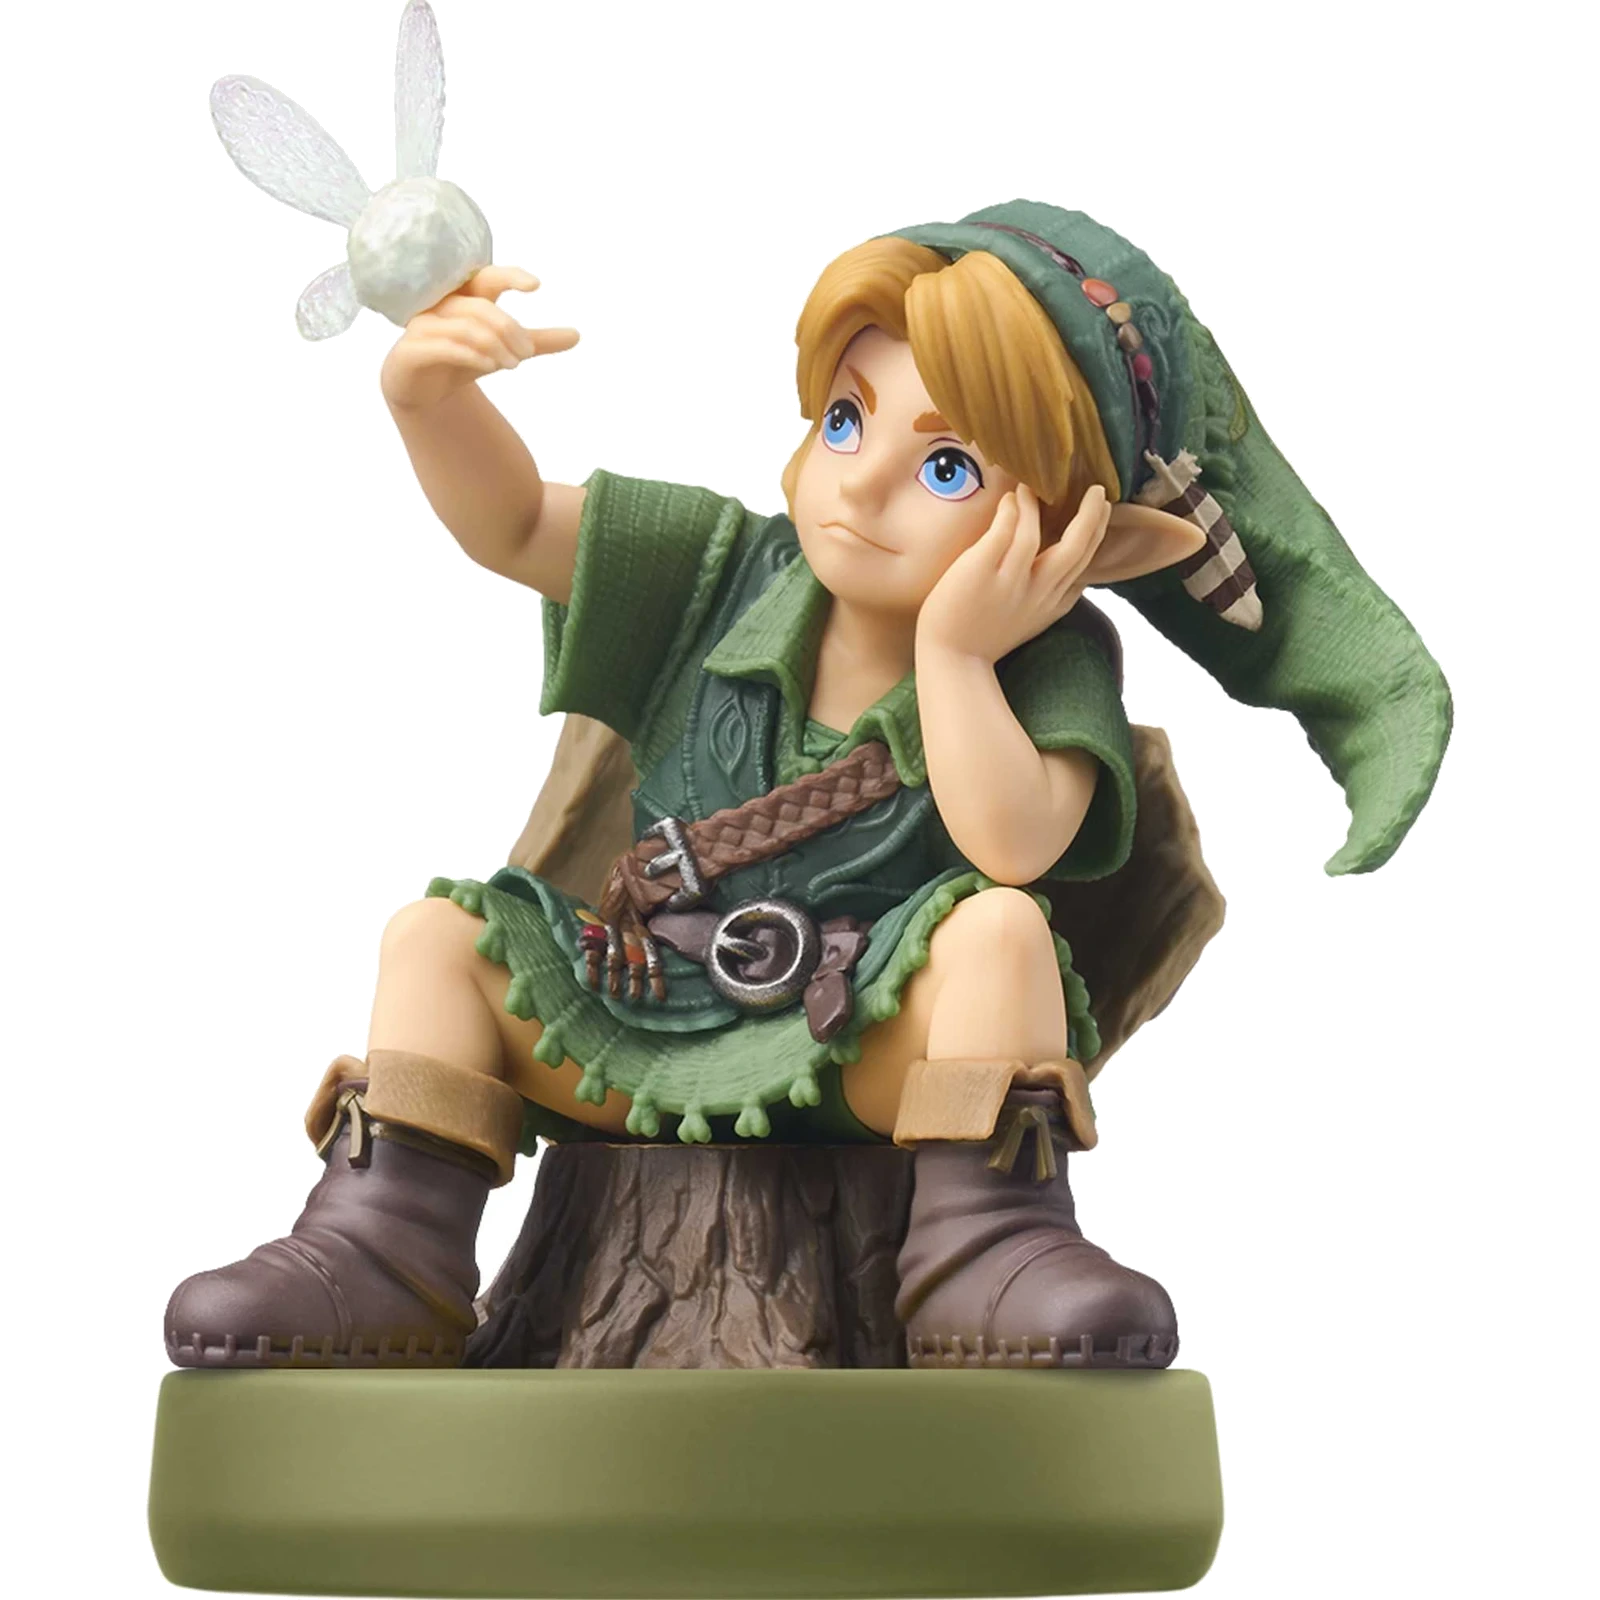
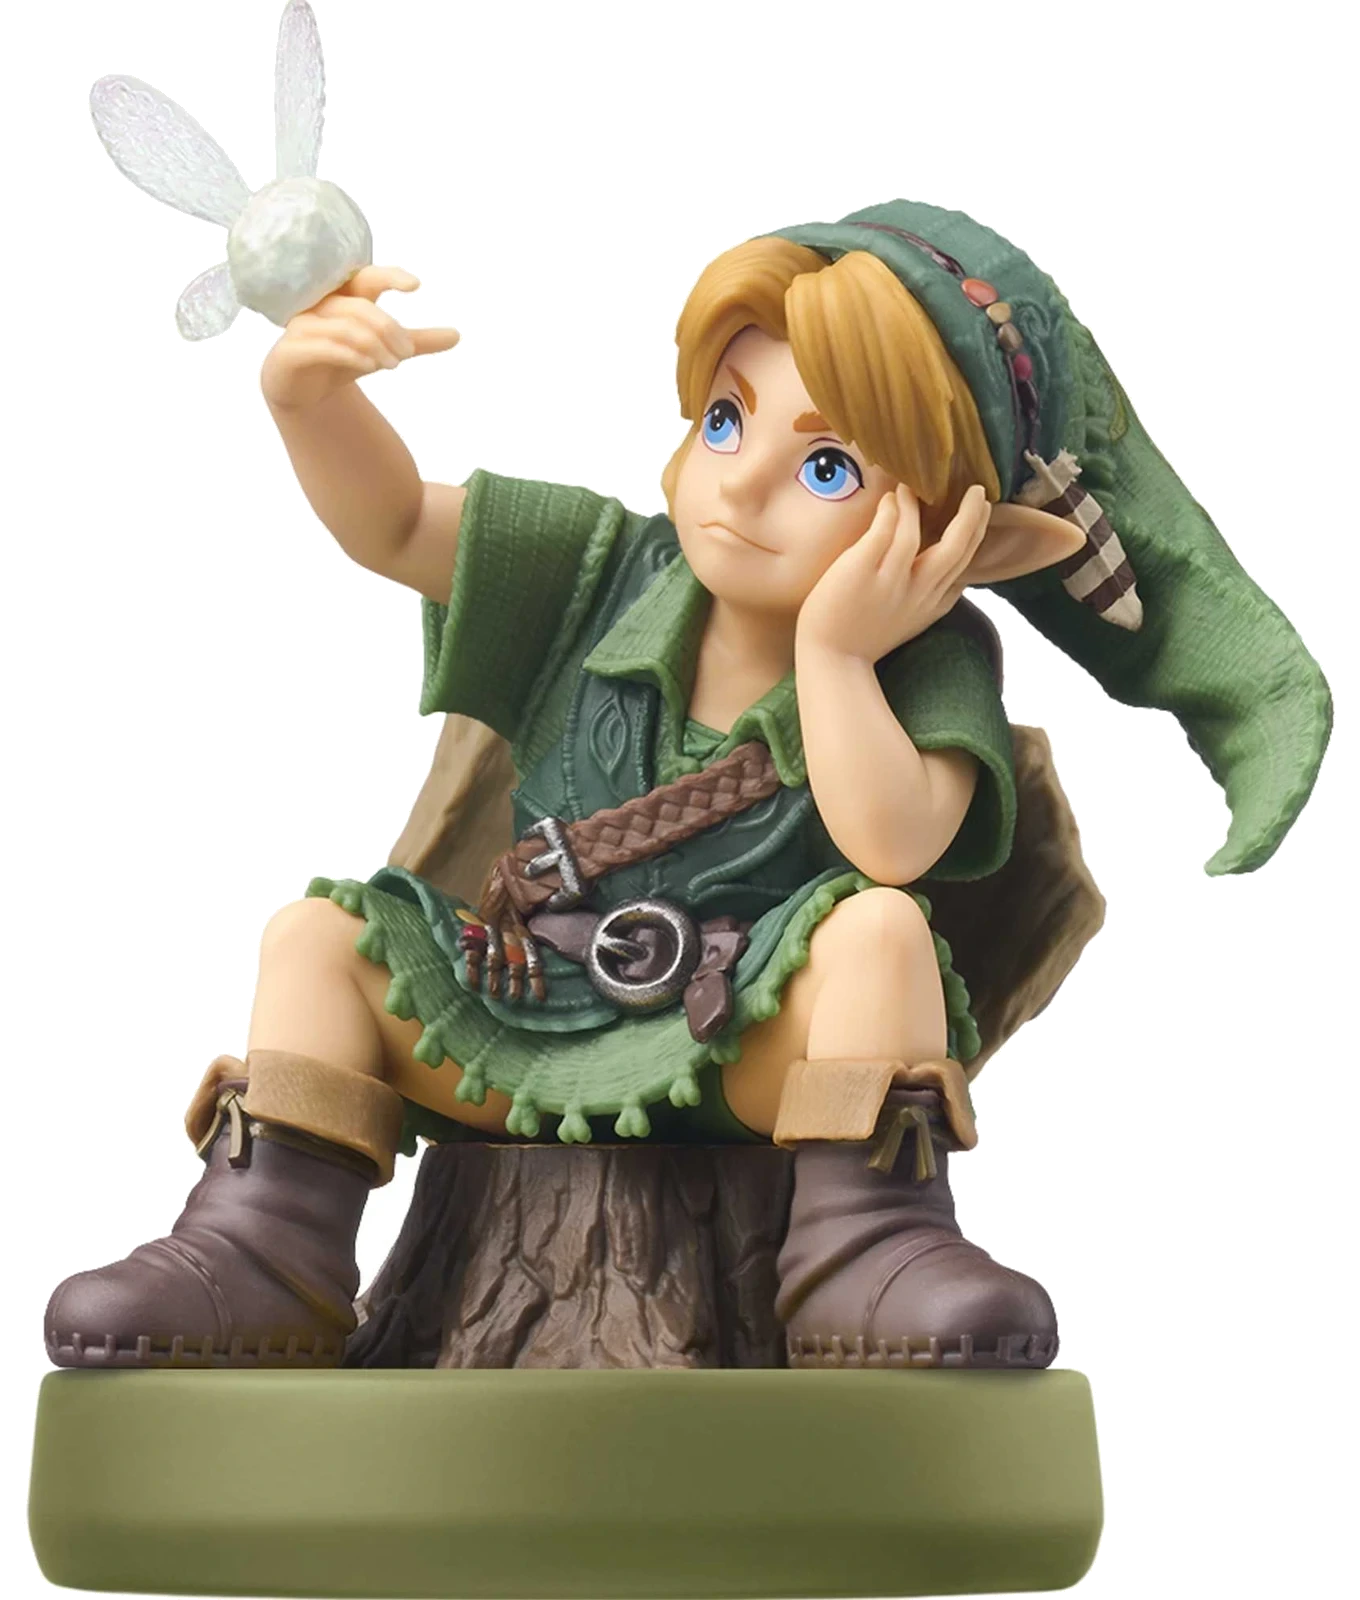
fix: crop new amiibo images

Changed region(s): [[0.0, 0.0, 0.9882, 1.0]]

diff --git a/CHANGELOG.md b/CHANGELOG.md
@@ -1,5 +1,9 @@
 # Notes de version
 
+## 1.3.3
+
+- recadrage des visuels individuels et des emballages des amiibo Young Link et Young Zelda afin qu'ils s'affichent à une échelle cohérente.
+
 ## 1.3.2
 
 - recadrage de la jaquette nord-américaine de *Ocarina of Time* sur Nintendo Switch 2 afin qu'elle s'affiche à la même échelle que les autres jeux.
